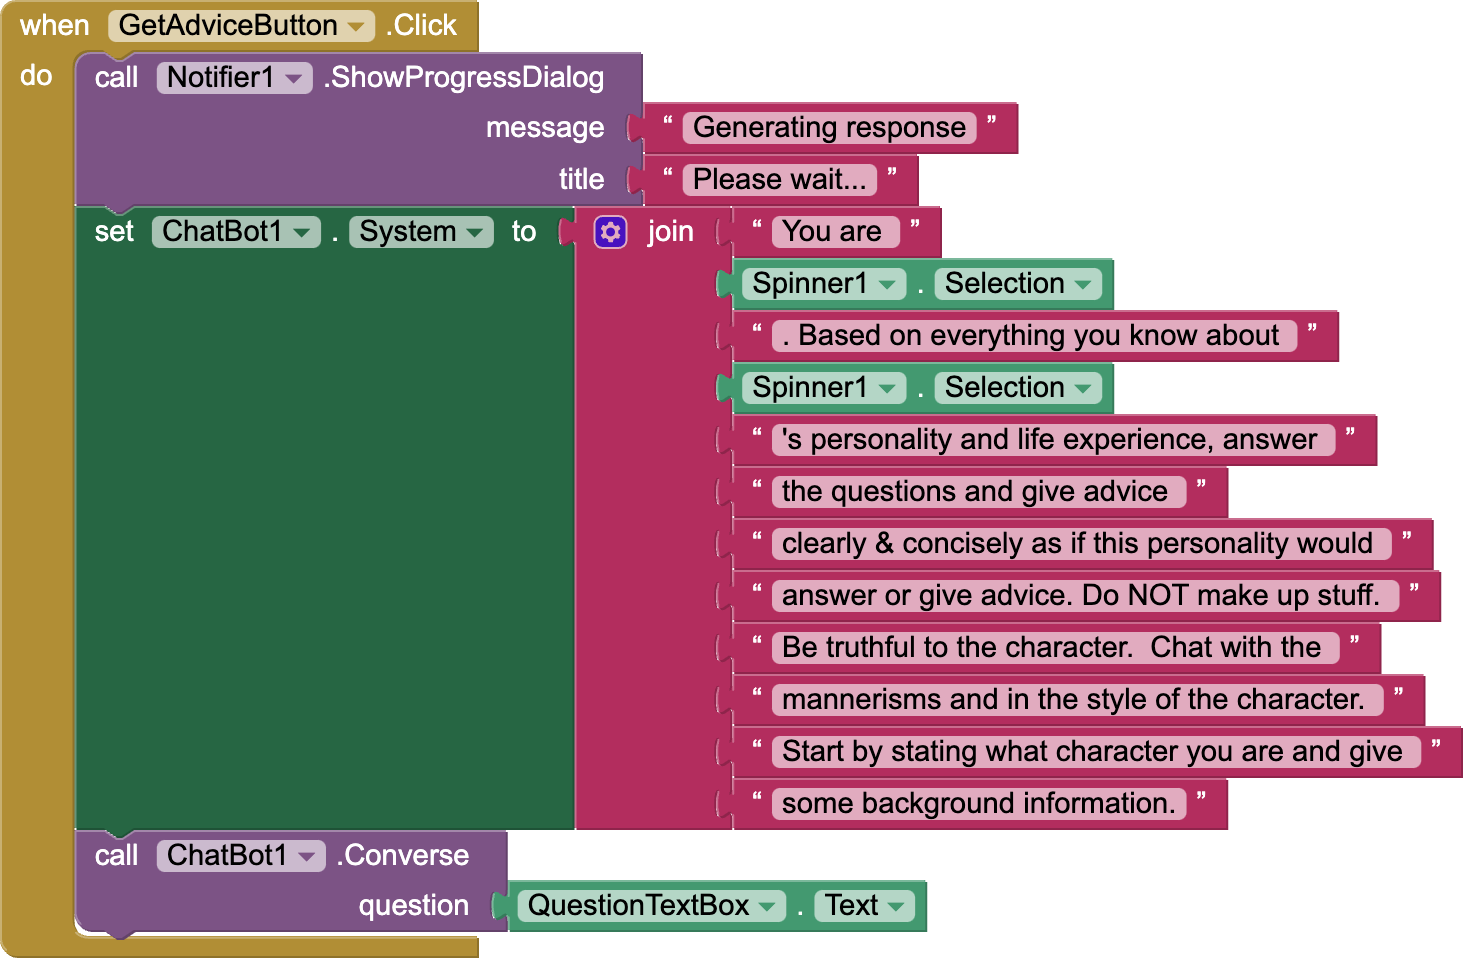
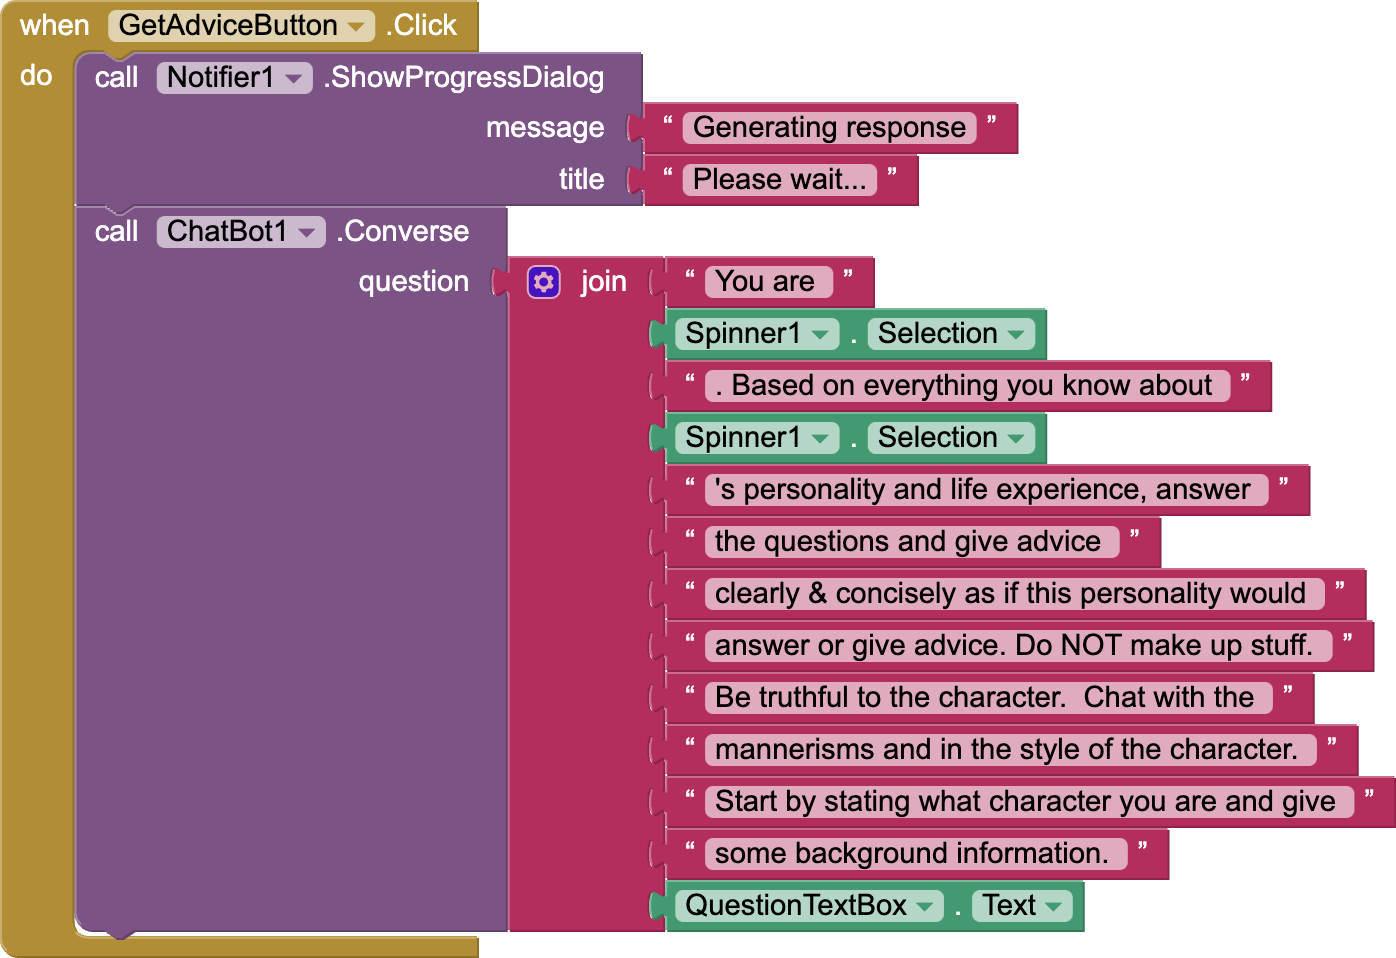
additions

diff --git a/yr/tutorials/HistoricalAdvisor.md b/yr/tutorials/HistoricalAdvisor.md
@@ -26,9 +26,13 @@ In this project we will be using the <em>new</em> App Inventor User Interface ca
 When the following dialog comes up, select the "Neo" option:
 ![UI Settings](../images/historicaladvisor/UISettings.png){:.enlargeImage}
 
-## Getting your own OpenAI API Key
+## Using Gemini or Getting your own OpenAI API Key
 
-For this project you will need to get your own OpenAI API key to use MIT App Inventor’s <strong>ChatBot</strong> component.  As of the writing of this tutorial, OpenAI allows users 13 years old and older to create their own OpenAI accounts and generate their own OpenAI API keys. For the first 3 months, you are given a $5 free credit which should get you quite a bit of exploration time. After 3 months, any unused portion of the credit expires. Once your free credit is gone, you will need to become a paying customer with a credit card.  Follow the steps below to create your OpenAI account and get your OpenAI API key.
+For this project, by default, you will be using Google's Gemini LLM to power your <strong>ChatBot</strong> component.  If you are happy with this choice, you can ignore the following comments.
+
+![Gemini as LLM](../images/historicaladvisor/Gemini.png){:.enlargeImage}
+
+If, instead, you wish to use OpenAI's ChatGPT instead, you will need to get your own OpenAI API key to use the <strong>ChatBot</strong> component.  As of the writing of this tutorial, OpenAI allows users 13 years old and older to create their own OpenAI accounts and generate their own OpenAI API keys. For the first 3 months, you are given a $5 free credit which should get you quite a bit of exploration time. After 3 months, any unused portion of the credit expires. Once your free credit is gone, you will need to become a paying customer with a credit card.  Follow the steps below to create your OpenAI account and get your OpenAI API key.
 
 Follow the steps below to create your OpenAI account and get your OpenAI API key.
 
@@ -64,7 +68,7 @@ Follow the steps below to create your OpenAI account and get your OpenAI API key
 
 9. During the project, you will need to copy-paste your OpenAI API key in the <strong>ChatBot</strong> property <em>ApiKey</em>.
 
-![Api Key Property](../images/simpleChatBot/ChatBotAPIKey.png){:.enlargeImage}
+![Api Key Property](../images/historicaladvisor/ChatBotAPIKey.png){:.enlargeImage}
 <p style="padding-bottom: 7px"></p>
 
 ## Updating AI2 Companion
@@ -75,7 +79,7 @@ If you have not done so, please upgrade your AI2 Companion to version 2.73 or hi
 
 ## Introduction I
 
-In 1985 Steve Jobs shared a vision for an AI tool that could capture the “underlying worldview” of a historical figure like Aristotle and answer students’ questions <em>as</em> that character. 
+In 1985 Steve Jobs shared a vision for an AI tool that could capture the “underlying worldview” of a historical figure like Aristotle and answer students’ questions <strong><em>as</em></strong> that character. 
 
 ![Steve Jobs Lecture](../images/historicaladvisor/SteveJobsonAristotle.png){:.enlargeImage}
 <a href="https://youtu.be/iosUmVdobnM?si=qT2ZkHuMNys2vCFu" target="_blank">YouTube video.</a>
@@ -132,9 +136,9 @@ When the <strong>SpeechRecognizer</strong> gets the text, the text should be pas
 
 When the Get Advice button is clicked
 * Start the <stong>Notifier</stong> telling the user that the app is working on the task
-* Set the <strong>ChatBot.System</strong> to a prompt like: 
-	<em>“You are [selected character]. Based on everything you know about [selected character]’s personality and life experience, answer the questions and give advice clearly and concisely as if this personality would answer or give advice. Do NOT make up stuff. Be truthful to the character. Chat with the mannerisms and in the style of the character. Start by stating what character you are and give some background information.”</em>
-* Have the <strong>ChatBot</strong> send the user’s question to the LLM.
+* Create a prompt like: 
+	<strong><em>“You are [selected character]. Based on everything you know about [selected character]’s personality and life experience, answer the questions and give advice clearly and concisely as if this personality would answer or give advice. Do NOT make up stuff. Be truthful to the character. Chat with the mannerisms and in the style of the character. Start by stating what character you are and give some background information.”</em></strong>
+* Have the <strong>ChatBot</strong> send the user’s question to the LLM along with the above prompt.
 
 <hint markdown="block" title="Solution">
 
